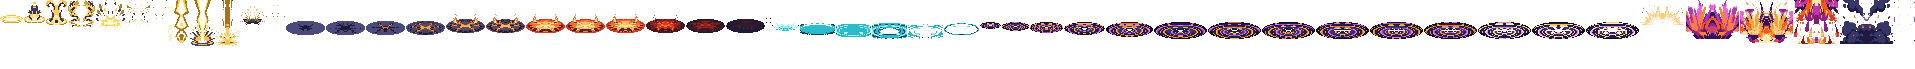
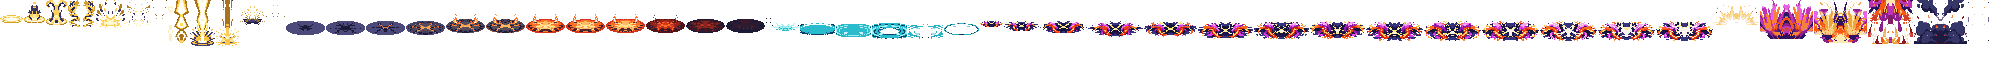
Hwei: GPT's r_canvas (Codex new-chat-4 outputs/hwei-canvas, the user's request) in place of the drawn stand-in - 14 frames read from its 4 x 4 grid, each centred up and down, nothing trimmed at the cells' sides; every effect now drawn by Gemini or GPT

Changed region(s): [[0.0, 0.0, 1.0, 0.6667]]

diff --git a/tools/art/process_hwei_fx.py b/tools/art/process_hwei_fx.py
@@ -12,8 +12,10 @@ edy4w2* x2), copied to --src as g00.jpg .. g23.jpg in the order they were made (
 16:28) are Qiyana's River / Grass pictures (a blue puddle with white spray, a green grass ring) - not his, left alone;
 the first 22 follow the pack's order but for the ult's projectile and canvas, which Gemini left out: g20 is r_burst,
 g21 r_hit. Of the two missing ones the user had Gemini draw r_paint (the spiralling paint bolt) afterwards
-(Gemini_Generated_Image_qpgagw*, 16:57: --src g22_r_paint.jpg; read 24 x 12, the pack's 20 x 10 mashed its spiral); r_canvas (the painted spiral on the ground, 3 s) is drawn
-here square by square on the pack's own ramps (draw_r_canvas), symmetric like the rest, until GPT's comes.
+(Gemini_Generated_Image_qpgagw*, 16:57: --src g22_r_paint.jpg; read 24 x 12, the pack's 20 x 10 mashed its spiral); r_canvas (the painted spiral on the ground, 3 s) came from GPT
+(pack_hwei_canvas.py's prompt; Codex 2026-10-22/new-chat-4 outputs/hwei-canvas, --src g23_r_canvas.png: 14 frames on a
+4 x 4 grid of 384 x 256 cells, black ground, its rows drifting a few px - each frame centred up and down, no border band
+trimmed, MARGIN / VCENTRE); draw_r_canvas, the stand-in drawn here before it came, is the prompt's layout guide.
 The JPGs have no alpha and backgrounds of black, white, grey, a grey gradient (slow), a painted chequerboard (q_q_ball)
 and mixed cells (q_q_hit, r_burst, r_hit); every cell is keyed by flooding in from its own border. e_e_open has pure
 white blocks pasted into its black ground (WHITE_BLOCKS: painted black first), r_burst one in its black first cell
@@ -47,12 +49,14 @@ OUT = os.path.join(ROOT, "assets", "source", "hwei", "codex_fx", "hwei_fx")
 FLYING = {"a_ink", "q_q_ball", "e_q_face", "r_paint"}
 FORWARD = set()
 # (rows, columns) of the picture's grid where it is not one row of `frames` cells; the cells read row by row
-LAYOUT = {"q_e_lava": (4, 4), "w_haste": (3, 2)}
+LAYOUT = {"q_e_lava": (4, 4), "w_haste": (3, 2), "r_canvas": (4, 4)}
 # the cells' x edges on the JPG where they are not equal (cut on the gaps between the drawings: a_ink's balls and
 # e_q_face's heads reach over the equal cuts); ROWS the y edges where a grid's rows are not equal
 CUTS = {"a_ink": [0, 1540, 3000, 4470, 5856], "e_q_face": [0, 1550, 2970, 4460, 5856],
-        "q_e_lava": [0, 688, 1375, 2064, 2752]}
-ROWS = {"q_e_lava": [0, 383, 752, 1120, 1536]}
+        "q_e_lava": [0, 688, 1375, 2064, 2752], "r_canvas": [0, 384, 768, 1152, 1536]}
+ROWS = {"q_e_lava": [0, 383, 752, 1120, 1536], "r_canvas": [0, 256, 512, 768, 1024]}
+MARGIN = {"r_canvas": 0.0}    # its ovals reach within 6 px of their cells' sides: no border band trimmed
+VCENTRE = {"r_canvas"}        # each frame's drawing centred up and down (GPT's rows drift a few px)
 # the cells kept where not the first `frames`: q_e_lava's twelve in three rows and the faint cracks alone in the fourth
 PICK = {"q_e_lava": list(range(12)) + [15]}
 NEUTRAL = 18                  # a ground colour is grey: black, white, a panel, a chequerboard, a gradient (not his navy)
@@ -76,6 +80,7 @@ SOURCES = {
     "g15.jpg": ("e_e_open", 6, (28, 24)), "g16.jpg": ("e_e_hit", 5, (28, 24)), "g17.jpg": ("w_pool", 6, (40, 16)),
     "g18.jpg": ("w_shield", 5, (22, 40)), "g19.jpg": ("w_haste", 6, (24, 8)), "g20.jpg": ("r_burst", 7, (56, 44)),
     "g21.jpg": ("r_hit", 4, (14, 14)), "g22_r_paint.jpg": ("r_paint", 4, (24, 12)),
+    "g23_r_canvas.png": ("r_canvas", 14, (56, 22)),
 }
 KEY = {"a_ink": 26, "a_hit": 26, "e_q_face": 22, "r_paint": 30}     # white grounds: his pale pink and white cores kept
 THIN = {"r_paint": 0.45, "q_w_tell": 0.35, "q_w_hit": 0.35, "a_hit": 0.25, "p_burst": 0.4, "q_q_hit": 0.4, "e_q_hit": 0.4,
@@ -110,10 +115,11 @@ def boxes(name, n, H, W):
     xs = CUTS[name]
     ys = ROWS.get(name, [0, H])
     out = []
+    m = MARGIN.get(name, S.OVERLAP)
     for y0, y1 in zip(ys, ys[1:]):
-        my = int(S.OVERLAP * (y1 - y0))
+        my = int(m * (y1 - y0))
         for x0, x1 in zip(xs, xs[1:]):
-            mx = int(S.OVERLAP * (x1 - x0))
+            mx = int(m * (x1 - x0))
             out.append((y0 + my, y1 - my, x0 + mx, x1 - mx))
     return out
 
@@ -152,6 +158,8 @@ def cells_of(img, name, n):
         a4 = np.zeros(sub.shape[:2] + (4,), np.uint8)
         a4[..., :3] = sub
         a4[..., 3] = np.where(fg, 255, 0)
+        if name in VCENTRE:
+            a4 = S.G.centred(a4, 0)
         out.append(a4)
     return [out[i] for i in PICK[name]] if name in PICK else out[:n]
 
@@ -228,7 +236,7 @@ def draw_r_canvas():
     return frames
 
 
-DRAWN = {"r_canvas": draw_r_canvas}
+DRAWN = {}                    # draw_r_canvas stays for pack_hwei_canvas.py's layout guide
 
 
 def main():
@@ -260,7 +268,7 @@ def main():
         sheets.append((name, strip, w))
         print(f"{name}: {len(cells)} frames of {w}x{h}")
     with open(S.lp(os.path.join(OUT, "manifest.json")), "w", encoding="utf-8", newline="\n") as f:
-        json.dump({"effects": entries, "made_by": "Gemini (the user's images; r_canvas drawn here), "
+        json.dump({"effects": entries, "made_by": "Gemini (the user's images; r_canvas by GPT), "
                    "processed by tools/art/process_hwei_fx.py"}, f, ensure_ascii=False, indent=1)
     if a.review:
         from PIL import ImageDraw

diff --git a/tools/art/import_hwei_fx.py b/tools/art/import_hwei_fx.py
@@ -8,7 +8,7 @@ The source is the step-3 delivery (assets/source/hwei/codex_fx/hwei_fx: pixel_1x
 frames each at game size, frame sizes in manifest.json (cell_1x); alpha 0 / 255; the four projectiles drawn flying right
 and symmetric top to bottom, every other one symmetric left to right - checked again here, then made an odd number of
 squares across the symmetric way). The user had Gemini draw 22 of them (JPGs, 2026-10-22), brought to that delivery by
-tools/art/process_hwei_fx.py, which draws the two Gemini left out (r_paint, r_canvas). Each frame is placed as the kit
+tools/art/process_hwei_fx.py (r_paint from the user's later Gemini picture, r_canvas from GPT's). Each frame is placed as the kit
 plays it (import_shyvana_fx.py's way): spots are game px from the pivot (x forward, y down); a unit's soles are 11 under
 it (league.dll hd.rs FEET 11.5), a ground point's too. Anchors: "core" (the cell's middle), ("feet", r) (r rows above
 the cell's bottom), "bottom" (the lowest drawn row of all its frames), "mid" (the middle of all its frames' drawn rows),
@@ -88,7 +88,7 @@ FX = {
     "w_haste": ("w_haste", "mid", loop(6, 70), [SOLES]),
     # Spiraling Despair: the paint bolt, the canvas, its burst, the hit on the units in it
     "r_paint": ("r_paint", "core", loop(4, 50), [LINE]),
-    "r_canvas": ("r_canvas", ("feet", 9), seq(range(14), [100] * 6 + [300] * 8), [SOLES]),
+    "r_canvas": ("r_canvas", "mid", seq(range(14), [100] * 6 + [300] * 8), [SOLES]),
     "r_burst": ("r_burst", "bottom", seq(range(6), [50, 60, 70, 80, 100, 120]), [GROUND]),
     "r_hit": ("r_hit", "core", seq(range(4), [40, 50, 60, 80]), [HIT]),
 }

diff --git a/assets/source/hwei/codex_fx/hwei_canvas/HANDOFF.md b/assets/source/hwei/codex_fx/hwei_canvas/HANDOFF.md
@@ -1,0 +1,9 @@
+# 彗大招地面画卷 r_canvas
+
+选用文件：`hwei-r-canvas.png`。内置 image_gen 生成，1536×1024，RGB，黑底版本，4列×4行，每格384×256，前14格有特效，第15、16格没有明显可见内容。`raw/hwei-r-canvas-raw.png`为原样副本；提示词见`generation-prompts.txt`，只读检查见`qa.json`。
+
+参考包文档作为本次美术规格使用，未执行其中面向Claude的代码、导入或仓库操作；结果保存在本聊天outputs内，没有写入Downloads或安装模组。
+
+第一版出现彩色背景光晕，已弃用并移出交付目录。选用版为黑底画卷，紫红/橙色双旋笔触、靛蓝底和金线，末尾裂纹变亮，没有人物、编号或网格线。
+
+限制：不是透明PNG；黑底含接近黑色的微小像素偏差，不能声称逐像素纯黑。左右为视觉近似对称，逐像素镜像检查不通过。帧中心与尺寸没有严格锁定：后续帧宽约360–372px，高约120–132px，且各行中心高度有漂移；未达到300×100px与统一锚点的精确要求。画卷展开速度也比目标快，第3–4帧已接近大尺寸。后续读取时需按实际轮廓重新确定位置、尺寸、镜像与节奏。没有进行程序绘图、重采样或强制对称处理。
